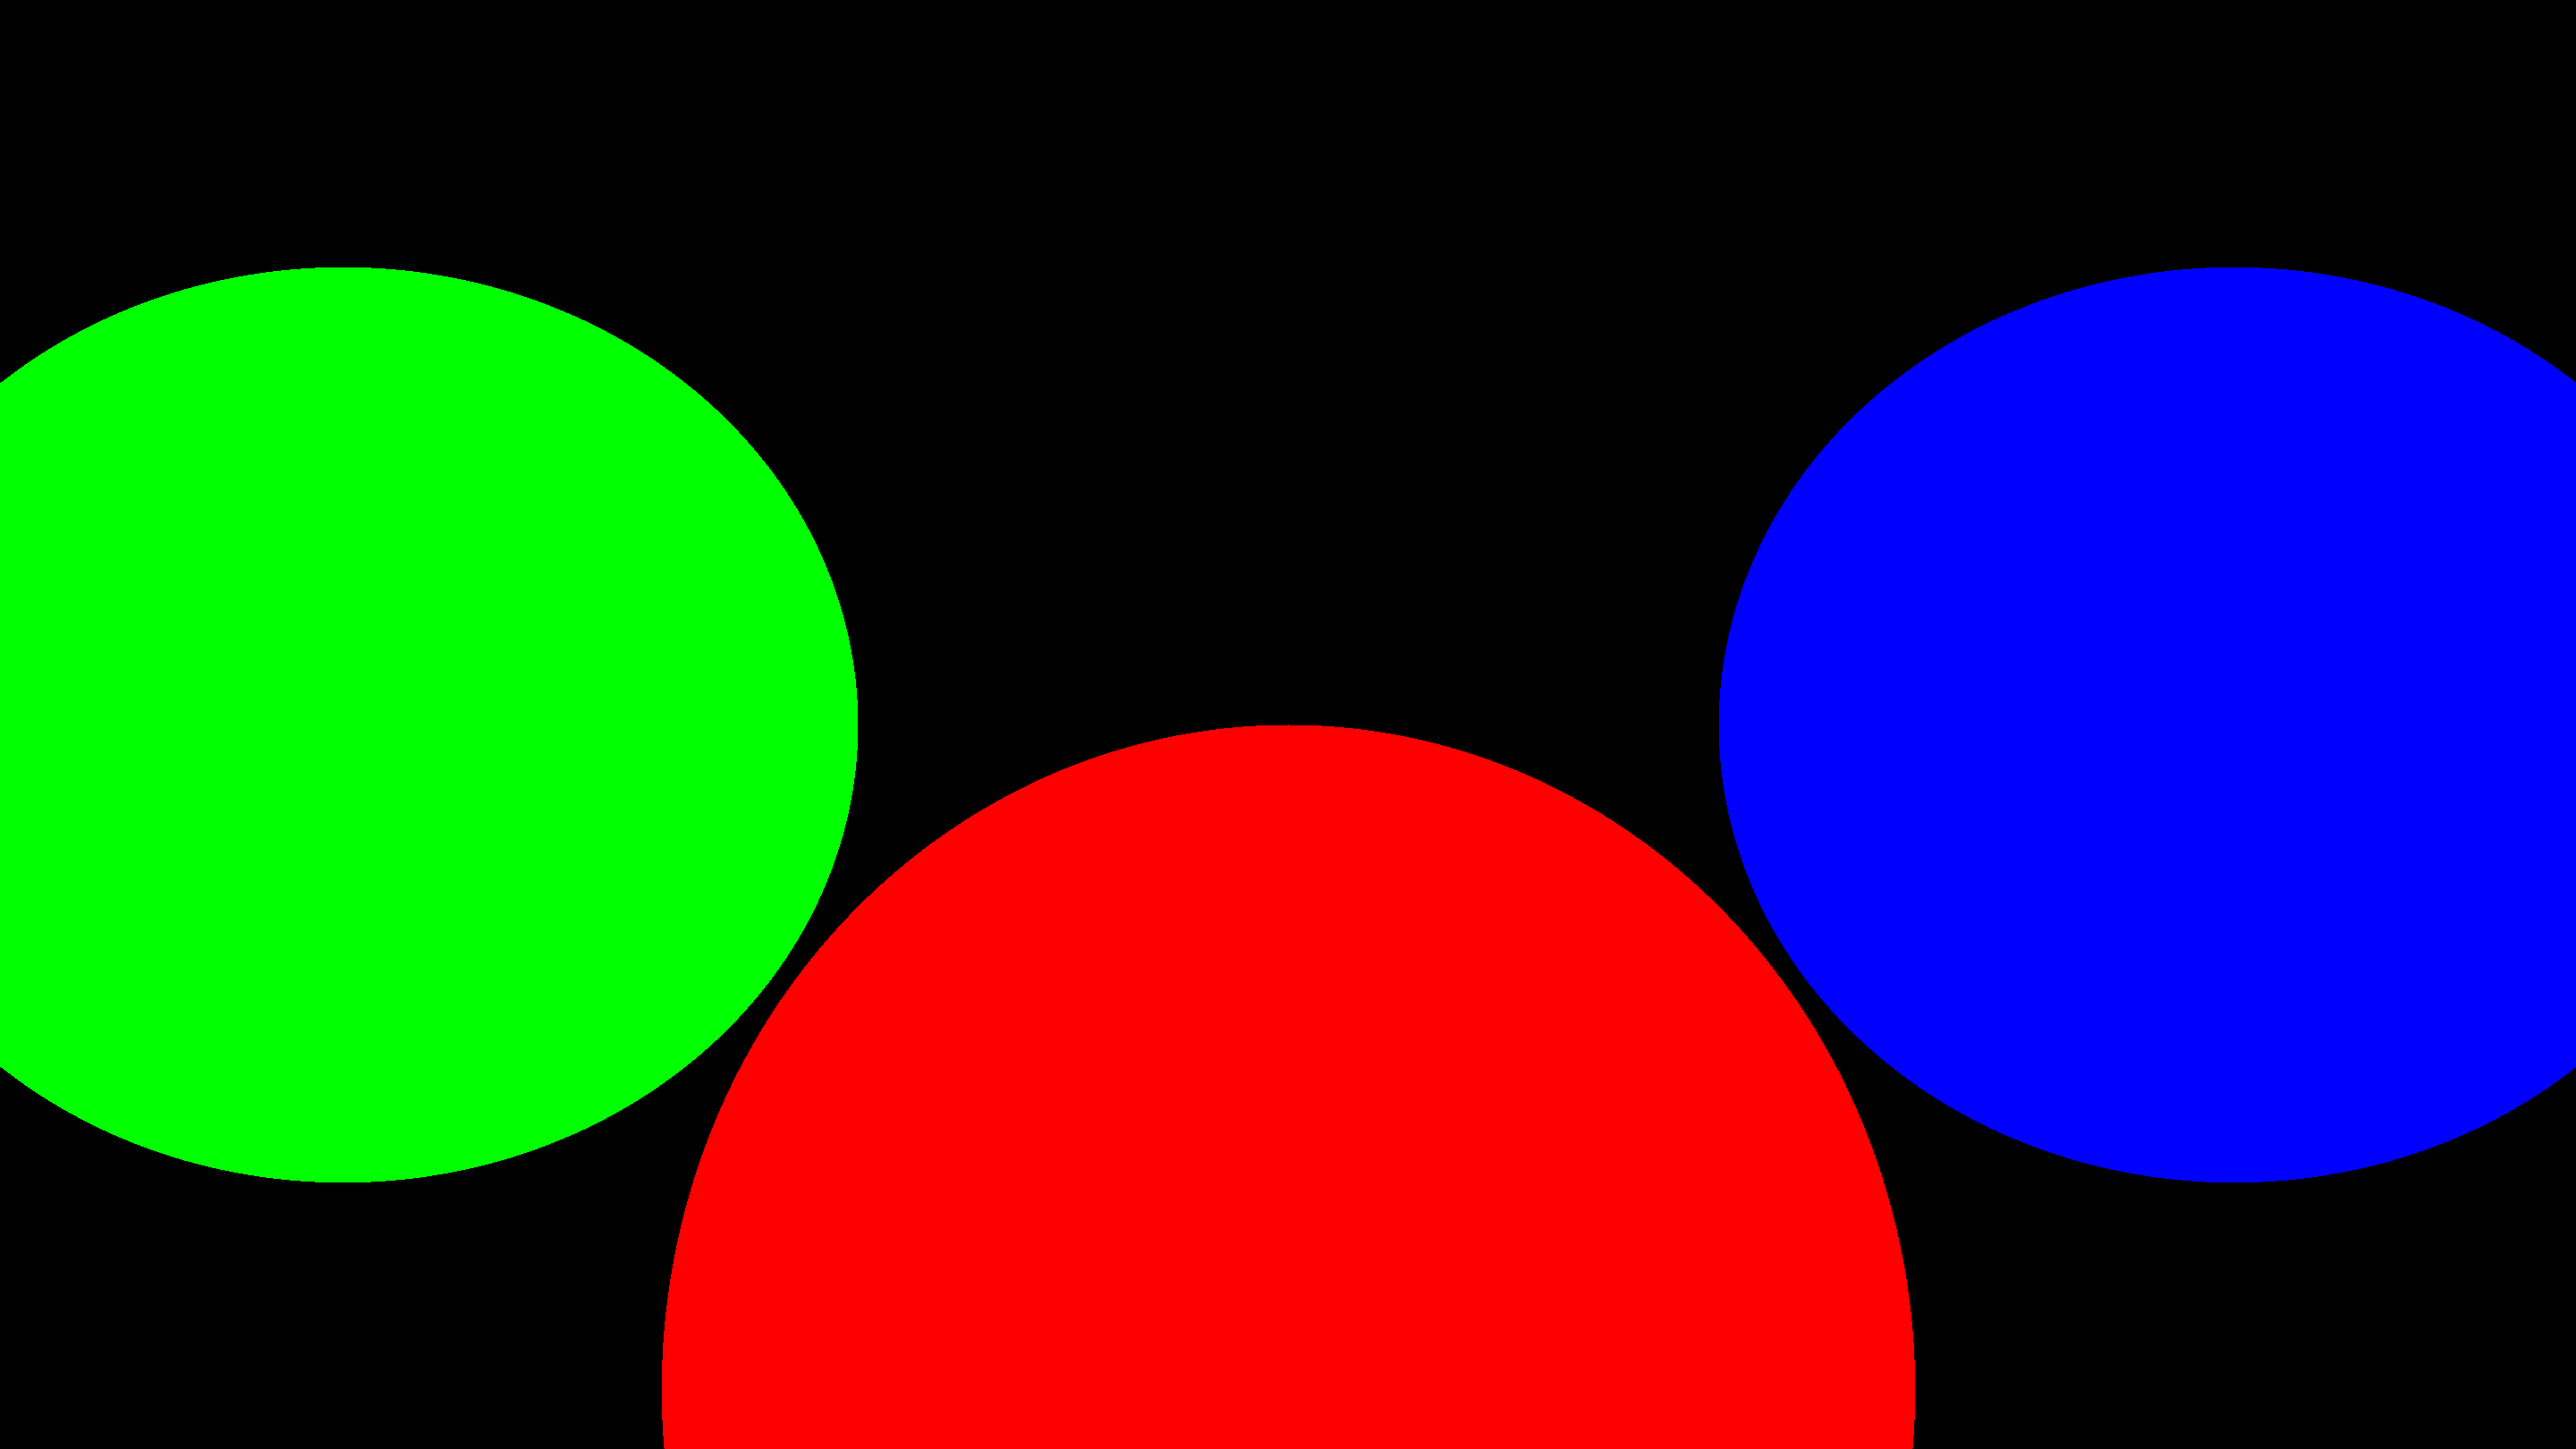
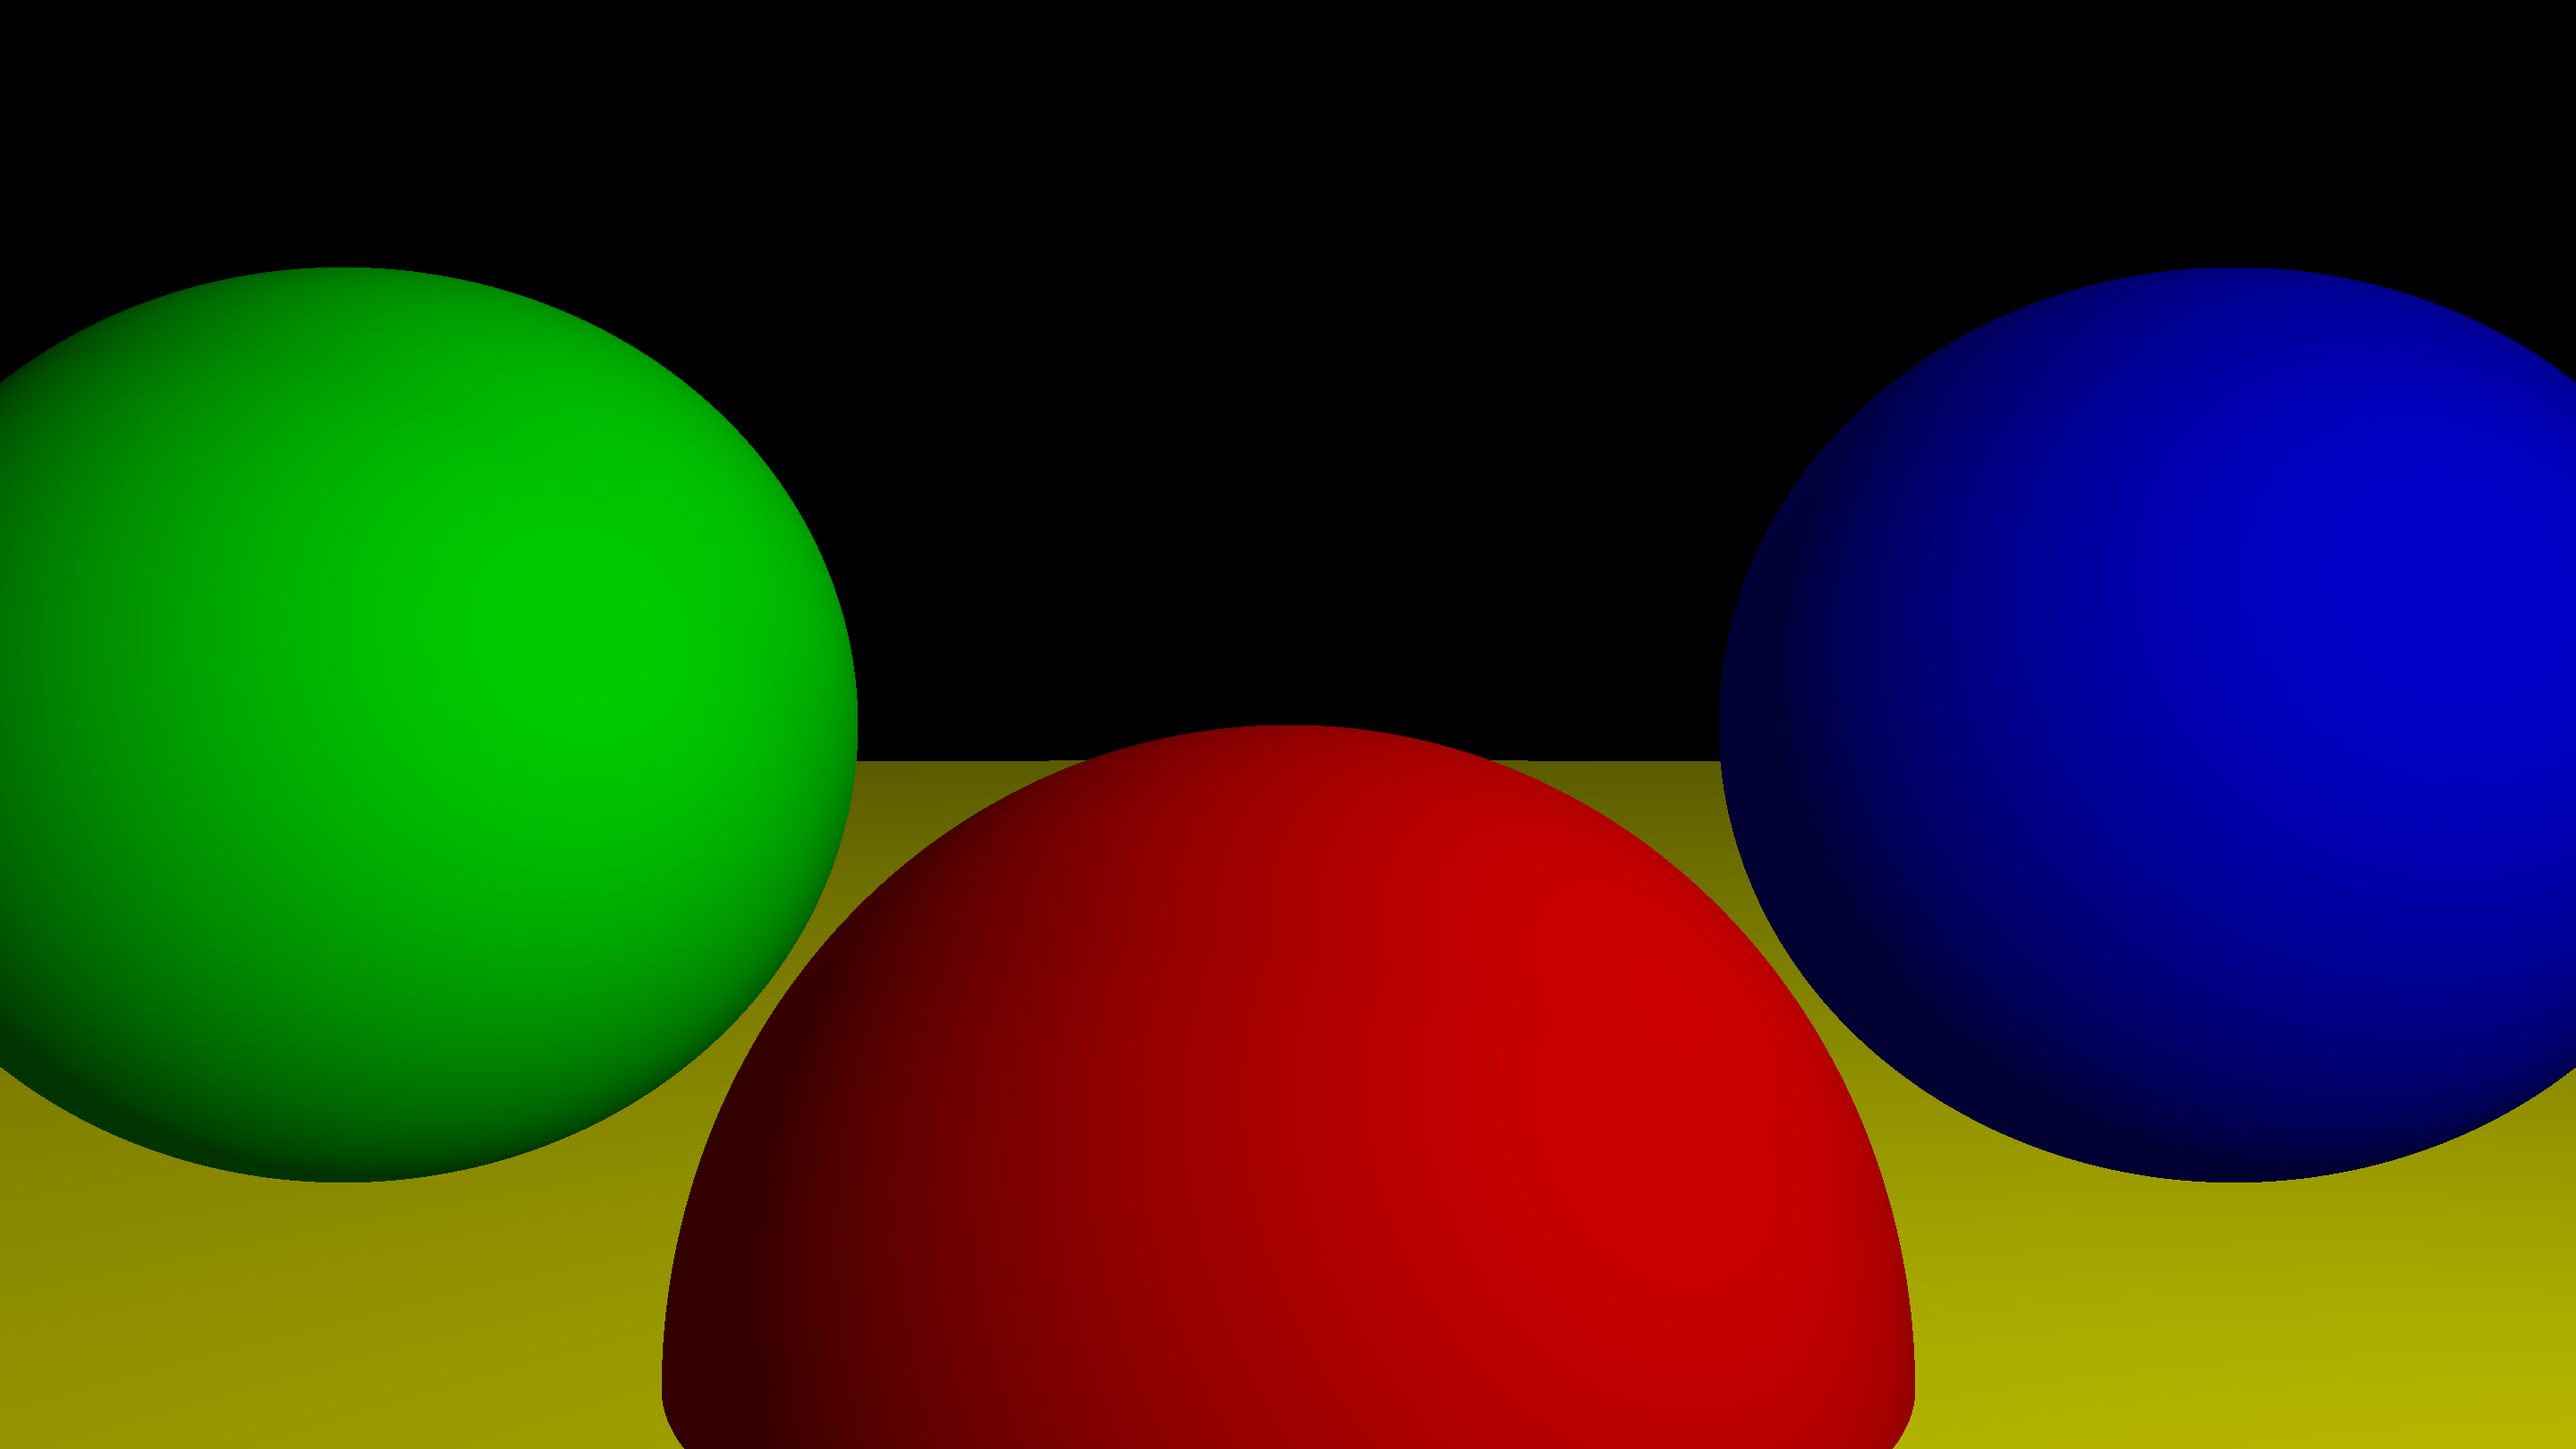
Added diffuse lightning

diff --git a/main.go b/main.go
@@ -3,14 +3,33 @@ package main
 import (
 	"fmt"
 	"math"
-
 	"github.com/gen2brain/raylib-go/raylib"
 )
+
+type light_source struct {
+	light string
+	intensity float32
+	position rl.Vector3
+	direction rl.Vector3
+}
+
+func new_light_source(light string, intensity float32) *light_source {
+	return &light_source{
+		light: light,
+		intensity: intensity,
+		position: rl.NewVector3(0, 0, 0),
+		direction: rl.NewVector3(0, 0, 0),
+	}
+}
 
 type sphere struct {
 	center rl.Vector3
 	radius float32
-	color rl.Vector4
+	color rl.Vector3
+}
+
+func color_transform (col rl.Vector3) rl.Color {
+	return rl.ColorFromNormalized(rl.NewVector4(col.X, col.Y, col.Z, 1))
 }
 
 func canvas_to_viewport(u int32, v int32, ratio float32) rl.Vector3 {
@@ -36,24 +55,64 @@ func intersect_sphere(origin rl.Vector3, ray rl.Vector3, sph sphere) (float32, f
 	}
 }
 
-func trace_ray(origin rl.Vector3, ray rl.Vector3, scene []sphere) rl.Vector4 {
+func trace_ray(origin rl.Vector3, ray rl.Vector3, scene []sphere, lights []light_source) rl.Vector3 {
 	closest_r := r_max
-	color := rl.NewVector4(0, 0, 0, 1)
+	color := rl.NewVector3(0, 0, 0)
 	sphere_num := len(scene)
 
 	for s := 0; s < sphere_num; s++ {
 		r1, r2 := intersect_sphere(origin, ray, scene[s])
 		if (r1 > r_min && r1 < r_max && r1 < closest_r) {
 			closest_r = r1
-			color = scene[s].color
+			point := rl.Vector3Add(origin, rl.Vector3Multiply(ray, closest_r))
+			intensity := let_there_be_light(point, scene[s], lights)
+			color = rl.Vector3Multiply(scene[s].color , intensity)
 		}
 		if (r2 > r_min && r2 < r_max && r2 < closest_r) {
 			closest_r = r2
-			color = scene[s].color
+			point := rl.Vector3Add(origin, rl.Vector3Multiply(ray, closest_r))
+			intensity := let_there_be_light(point, scene[s], lights)
+			color = rl.Vector3Multiply(scene[s].color , intensity)
 		}
+
 	}
 
 	return color
+}
+
+func let_there_be_light(
+	point rl.Vector3, 
+	sph sphere, 
+	lights []light_source) float32 {
+	var intensity float32 = 0
+
+	normal := rl.Vector3Normalize(rl.Vector3Subtract(point, sph.center))
+	ldir := normal
+	var n_dot_l float32 = 1
+
+	for l := 0; l < len(lights); l++ {
+		if lights[l].light == "ambient" {
+			intensity += lights[l].intensity
+		} else {
+			if lights[l].light == "point" {
+				ldir = rl.Vector3Normalize(rl.Vector3Subtract(lights[l].position, point)) 
+				n_dot_l = rl.Vector3DotProduct(normal, ldir)
+				if n_dot_l > 0 {
+					intensity += lights[l].intensity * n_dot_l
+				}
+			} 
+			if lights[l].light == "directional" {
+				ldir = lights[l].direction
+				n_dot_l = rl.Vector3DotProduct(normal, ldir)
+				if n_dot_l > 0 {
+					intensity += lights[l].intensity * n_dot_l
+				}
+			}
+		}
+		
+	}
+
+	return intensity
 }
 
 func main() {
@@ -67,36 +126,52 @@ func main() {
 	origin := rl.NewVector3(0, 0, 0)
 	ray := rl.NewVector3(0, 0, 0)
 	canvas := rl.GenImageColor(int(SCREEN_WIDTH), int(SCREEN_HEIGHT), rl.Black)
-	color := rl.NewVector4(0, 0, 0, 1)
+	color := rl.NewVector3(0, 0, 0)
 
-	scene := make([]sphere, 3)
+	lights := make([]light_source, 3)
+
+	lights[0] = *new_light_source("ambient", 0.2)
+
+	lights[1] = *new_light_source("point", 0.6)
+	lights[1].position = rl.NewVector3(2, 1, 0)
+
+	lights[2] = *new_light_source("directional", 0.2)
+	lights[2].direction = rl.Vector3Normalize(rl.NewVector3(1, 4, 4))
+
+	scene := make([]sphere, 4)
 
 	scene[0] = sphere{
 		center: rl.NewVector3(0, -1, 3),
 		radius: 1,
-		color: rl.NewVector4(1, 0, 0, 1),
+		color: rl.NewVector3(1, 0, 0),
 	}
 
 	scene[1] = sphere{
 		center: rl.NewVector3(2, 0, 4),
 		radius: 1,
-		color: rl.NewVector4(0, 0, 1, 1),
+		color: rl.NewVector3(0, 0, 1),
 	}
 
 	scene[2] = sphere{
 		center: rl.NewVector3(-2, 0, 4),
 		radius: 1,
-		color: rl.NewVector4(0, 1, 0, 1),
+		color: rl.NewVector3(0, 1, 0),
+	}
+
+	scene[3] = sphere{
+		center: rl.NewVector3(0, -5001, 0),
+		radius: 5000,
+		color: rl.NewVector3(1, 1, 0),
 	}
 
 	for u := -HALF_WIDTH; u < HALF_WIDTH; u++ {
 		for v := -HALF_HEIGHT; v < HALF_HEIGHT; v++ {
 			ray = canvas_to_viewport(u, v, ratio)
-			color = trace_ray(origin, ray, scene)
+			color = trace_ray(origin, ray, scene, lights)
 			rl.ImageDrawPixel(canvas, 
 				HALF_WIDTH + u, 
 				HALF_HEIGHT - v, 
-				rl.ColorFromNormalized(color))
+				color_transform(color))
 		}
 	}
 
